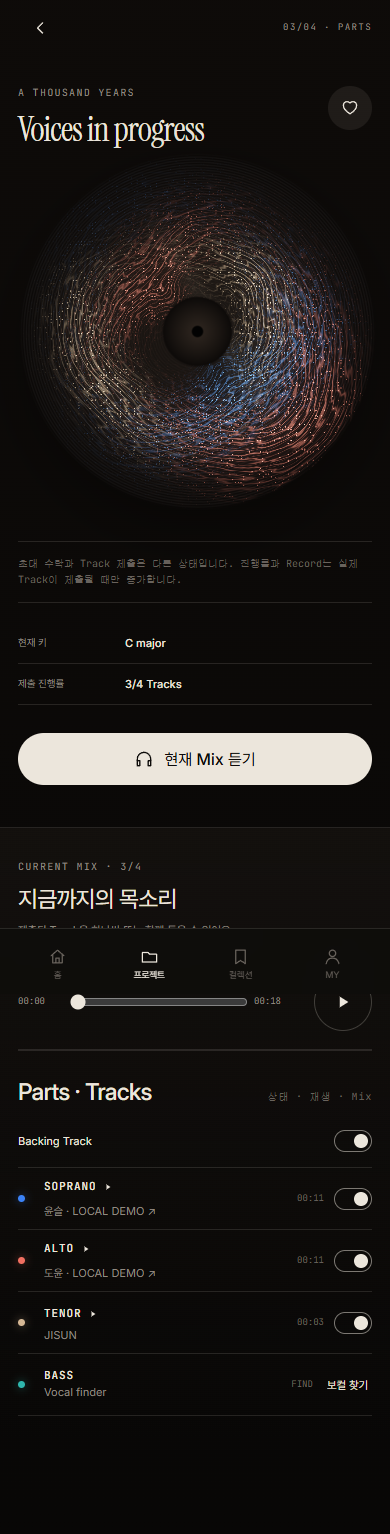
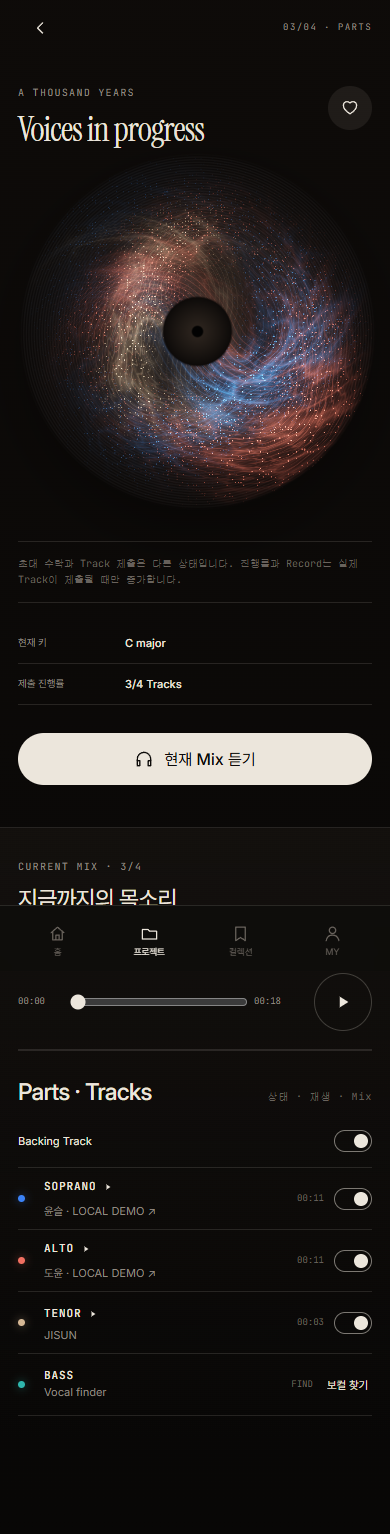
Refine resonance record organic flow fields

diff --git a/src/App.jsx b/src/App.jsx
@@ -199,7 +199,7 @@ varying vec2 vUv;uniform vec2 uResolution;uniform float uTime;uniform float uLiv
 float hash21(vec2 p){p=fract(p*vec2(123.34,456.21));p+=dot(p,p+45.32);return fract(p.x*p.y);}
 float noise(vec2 p){vec2 i=floor(p),f=fract(p);f=f*f*(3.-2.*f);return mix(mix(hash21(i),hash21(i+vec2(1,0)),f.x),mix(hash21(i+vec2(0,1)),hash21(i+vec2(1)),f.x),f.y);}
 float fbm(vec2 p){float v=0.,a=.5;for(int j=0;j<4;j++){v+=a*noise(p);p=p*2.03+vec2(17.1,9.2);a*=.5;}return v;}
-vec3 voiceColor(int i){if(i==0)return vec3(.24,.54,1.);if(i==1)return vec3(1.,.43,.35);if(i==2)return vec3(.94,.78,.58);return vec3(.22,.78,.73);}
+vec3 voiceColor(int i){if(i==0)return vec3(.2,.62,1.22);if(i==1)return vec3(1.12,.39,.3);if(i==2)return vec3(.96,.79,.58);return vec3(.18,.82,.76);}
 void main(){
  vec2 p=(vUv-.5)*2.;float r=length(p),ang=atan(p.y,p.x);float disc=1.-smoothstep(.965,.997,r);
  vec3 col=mix(vec3(.025,.019,.016),vec3(.12,.095,.076),max(0.,1.-r)*.55);
@@ -217,11 +217,21 @@ void main(){
   float flowNoise=fbm(polar*2.45+vec2((r-center)*12.+seed,-(r-center)*10.+seed*.4));
   float fibers=pow(.5+.5*cos((r-center)*178.+flowNoise*24.+sin(theta*7.+seed)*2.4),10.);
   float hair=pow(.5+.5*cos((r-center)*318.+flowNoise*15.),17.);
+  float flowAngle=b.x+seed*.17+r*1.55;float cs=cos(flowAngle),sn=sin(flowAngle);vec2 flowP=mat2(cs,-sn,sn,cs)*p;
+  vec2 organicP=flowP*vec2(5.4,8.6);float domain=fbm(organicP*.34+vec2(seed,-seed*.37));
+  float ridge=pow(1.-abs(noise(organicP+vec2(domain*3.1,-domain*2.4))*2.-1.),4.6);
+  float ridgeFine=pow(1.-abs(noise(organicP*1.72+vec2(-domain*2.2,domain*2.8))*2.-1.),8.5);
+  float plumeCurve=flowP.y-flowP.x*.12-sin(flowP.x*2.8+seed)*(.14+a.w*.018)-sin(flowP.x*6.1-seed)*.025;
+  float plumeWidth=.075+a.z*.62;float plume=exp(-1.8*plumeCurve*plumeCurve/(plumeWidth*plumeWidth))*smoothstep(1.02,.16,abs(flowP.x));
+  float plumeFibers=pow(.5+.5*cos(plumeCurve*188.+domain*23.),11.);
   vec2 sparkGrid=(p+vec2(seed*.01))*uResolution.x*.18;vec2 sparkCell=floor(sparkGrid);vec2 sparkUv=fract(sparkGrid)-.5;
   float sparkShape=smoothstep(.34,.035,length(sparkUv));float spark=sparkShape*step(.9,hash21(sparkCell+seed))*ribbon*presence;
   vec2 pinGrid=(p+vec2(seed*.013))*uResolution.x*.31;vec2 pinCell=floor(pinGrid);vec2 pinUv=fract(pinGrid)-.5;
   float pinShape=smoothstep(.22,.018,length(pinUv));float pin=pinShape*step(.94,hash21(pinCell-seed))*ribbon*presence;
-  float intensity=ribbon*presence*(.045+fibers*.72+hair*.28)+spark*3.1+pin*3.4;
+  float colorHaze=ribbon*presence*(.07+flowNoise*.055)+plume*(.026+domain*.024);
+  float ringFlow=ribbon*presence*(.028+fibers*.29+hair*.1+ridge*.39+ridgeFine*.16);
+  float crossingFlow=plume*(.012+plumeFibers*.25+ridge*.32+ridgeFine*.11)*(.22+.78*presence);
+  float intensity=colorHaze+ringFlow+crossingFlow+spark*3.1+pin*3.4;
   intensity*=.72+b.y*.78+live*uLiveLevel*.55;col+=voiceColor(i)*intensity;
  }
  float sheen=smoothstep(.13,0.,abs(p.x+p.y*.58-.12))*(1.-smoothstep(.18,.9,r))*.045;col+=vec3(.75,.68,.58)*sheen;
